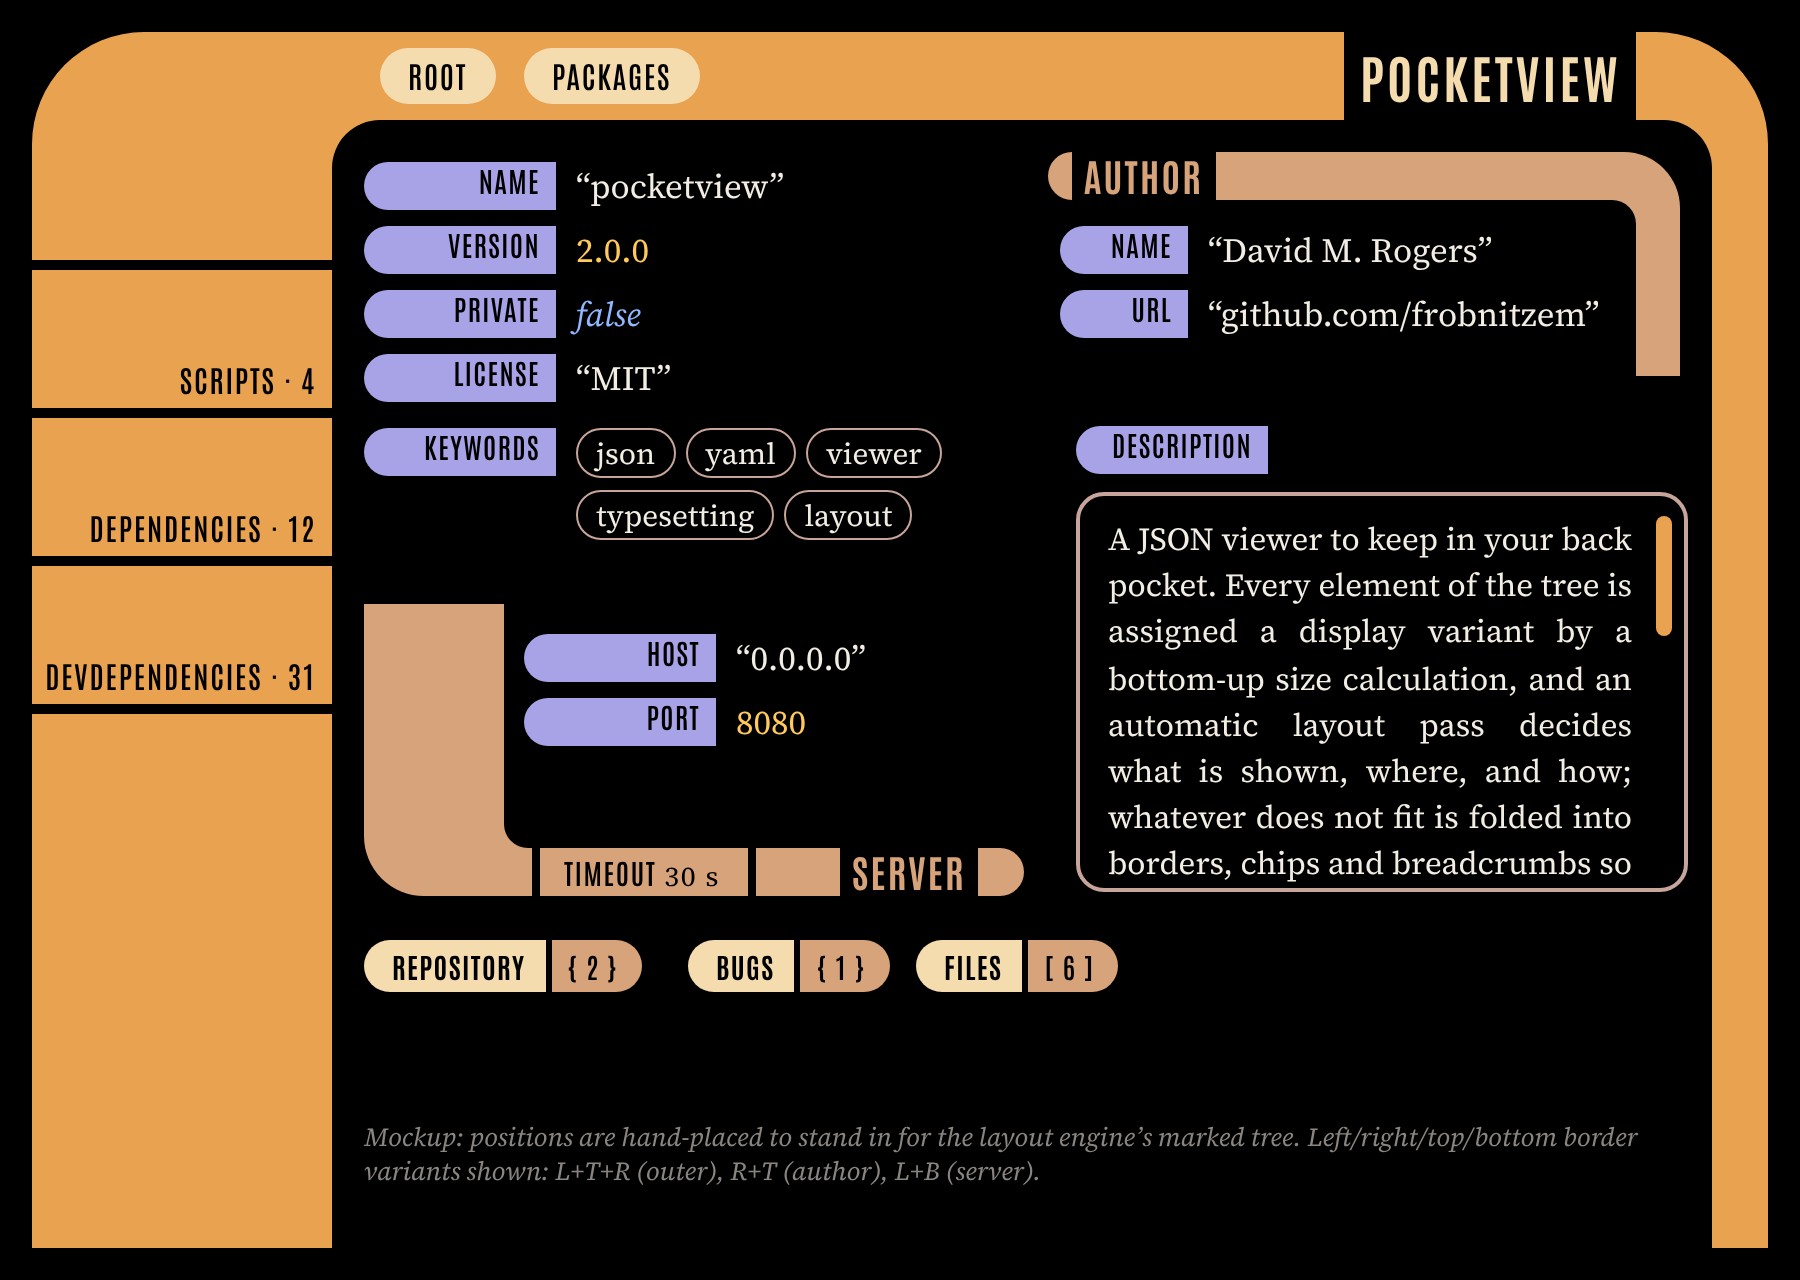
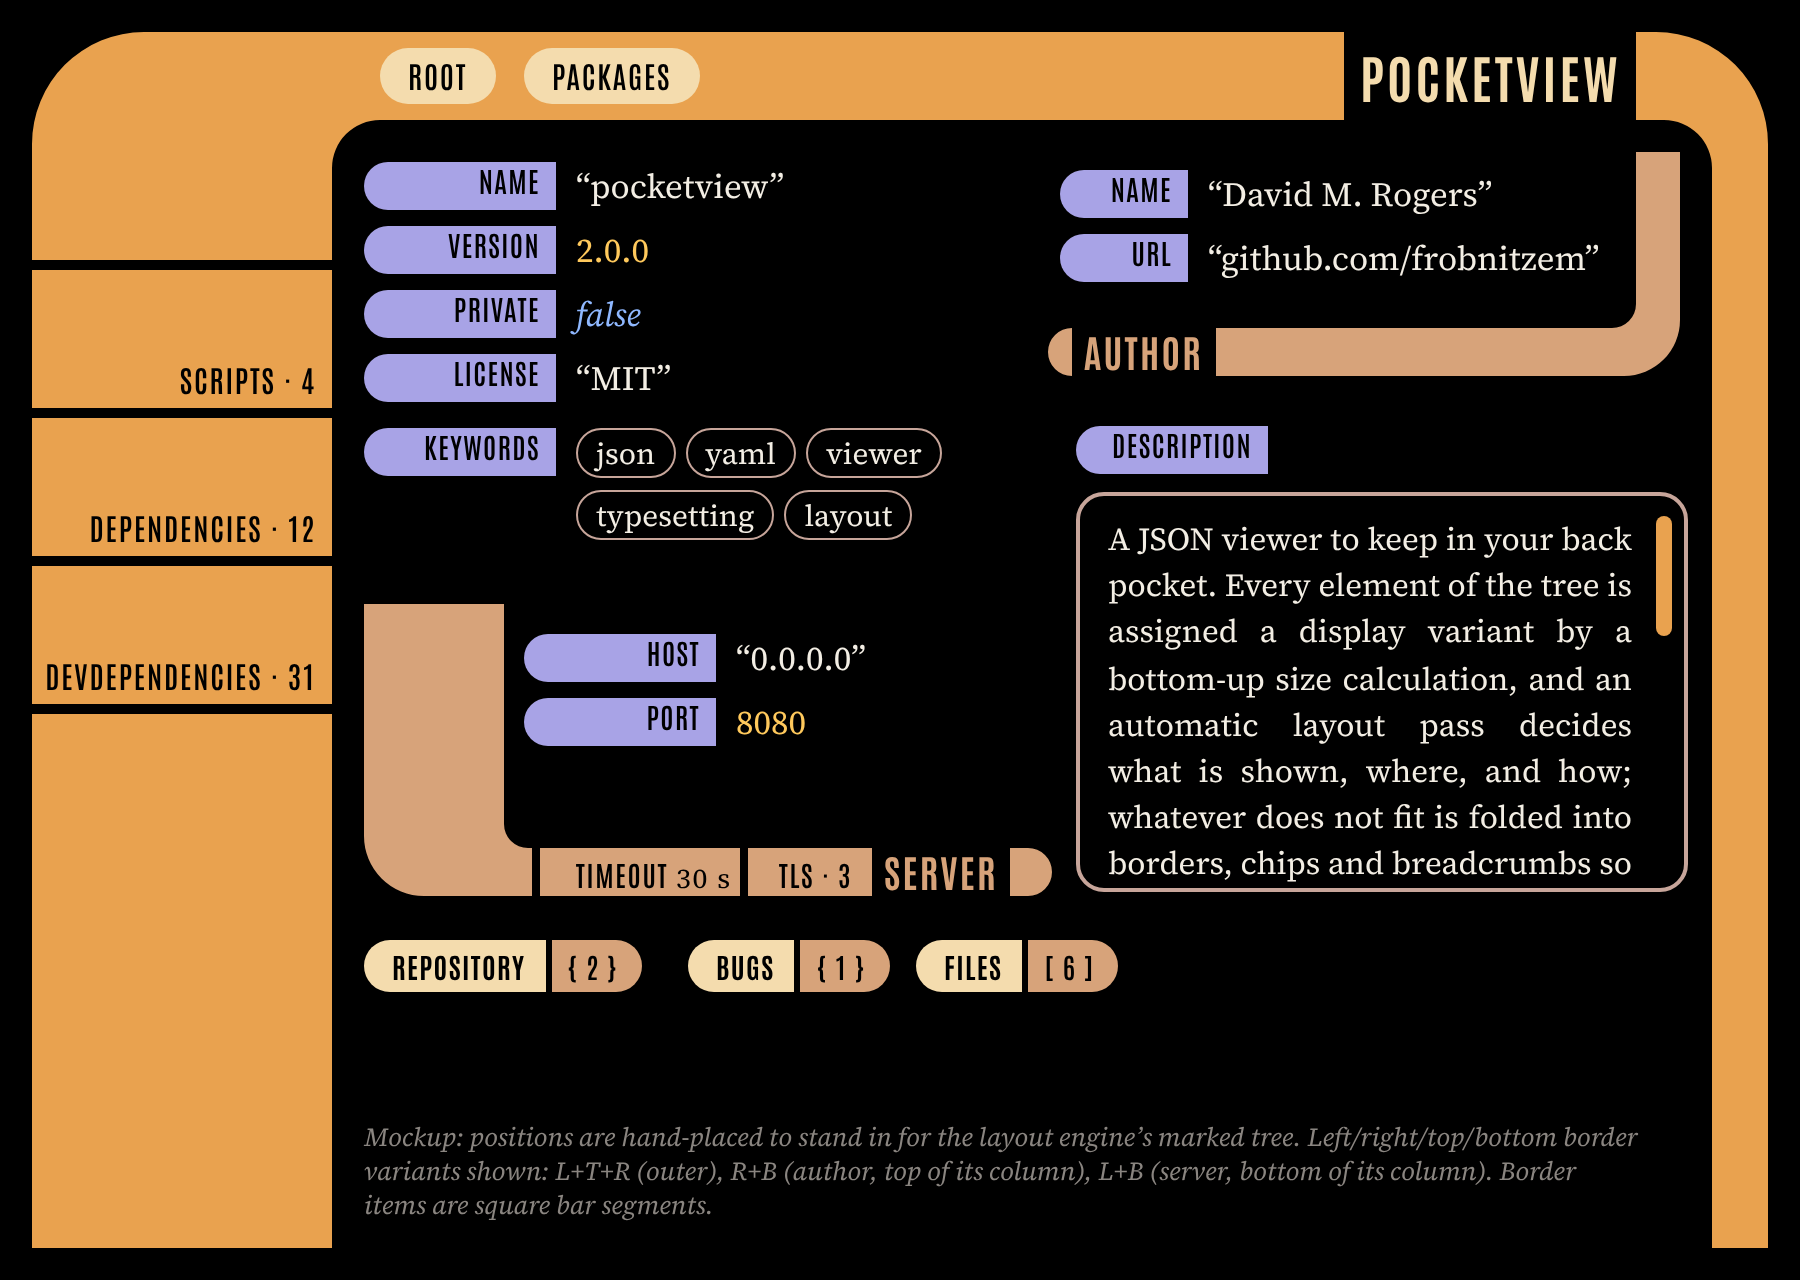
Settle arch variant rules and square border segments
No LBR arch; T by default, B at the top or bottom of a column; items in a
horizontal bar are square segments matching the side bar. Framed arrays
deferred to a selector plugin.

Claude-Session: https://claude.ai/code/session_0197MBmZbRuHRcvrcQRsUeTS

diff --git a/docs/mockups/arch.html b/docs/mockups/arch.html
@@ -70,16 +70,18 @@
   <span style="width:210px"><span class="tag">json</span><span class="tag">yaml</span><span class="tag">viewer</span><span class="tag">typesetting</span><span class="tag">layout</span></span>
 </div>
 
-<!-- nested object, R+T variant (right column) -->
-<div class="lbl title" style="--bar:24px;left:536px;top:76px;font-size:19px;color:var(--frame-1);padding:0 6px">author</div>
-<div class="row" style="left:530px;top:112px"><span class="key sm">name</span><span class="val">“David M. Rogers”</span></div>
-<div class="row" style="left:530px;top:144px"><span class="key sm">url</span><span class="val">“github.com/frobnitzem”</span></div>
+<!-- nested object, R+B variant (top of the right column) -->
+<div class="lbl title" style="--bar:24px;left:536px;top:164px;font-size:19px;color:var(--frame-1);padding:0 6px">author</div>
+<div class="row" style="left:530px;top:84px"><span class="key sm">name</span><span class="val">“David M. Rogers”</span></div>
+<div class="row" style="left:530px;top:116px"><span class="key sm">url</span><span class="val">“github.com/frobnitzem”</span></div>
 
 <!-- nested object, L+B variant: key/value pair sitting ON the bottom border -->
 <div class="row" style="left:262px;top:316px"><span class="key">host</span><span class="val">“0.0.0.0”</span></div>
 <div class="row" style="left:262px;top:348px"><span class="key">port</span><span class="val num">8080</span></div>
-<div class="lbl" style="left:282px;top:429px;font-size:14px">timeout <span style="font-family:'Source Serif 4';text-transform:none;font-weight:400">30 s</span></div>
-<div class="lbl title" style="--bar:24px;left:420px;top:424px;font-size:19px;color:var(--frame-1);padding:0 6px">server</div>
+<!-- border items are square segments of the bar, labelled like side-bar segments -->
+<div class="lbl seg" style="left:270px;top:430px;width:96px;font-size:14px">timeout <span style="font-family:'Source Serif 4';text-transform:none;font-weight:400">30 s</span></div>
+<div class="lbl seg" style="left:374px;top:430px;width:52px;font-size:14px">tls · 3</div>
+<div class="lbl title" style="--bar:24px;left:436px;top:424px;font-size:19px;color:var(--frame-1);padding:0 6px">server</div>
 
 <!-- long text: fixed width, scrolls instead of overflowing -->
 <div class="row" style="left:538px;top:212px"><span class="key">description</span></div>
@@ -96,7 +98,7 @@
 <div class="chip" style="left:458px;top:470px"><b>files</b><i>[ 6 ]</i></div>
 
 <div class="note" style="left:182px;top:560px;width:640px">Mockup: positions are hand-placed to stand in for the layout engine’s marked tree.
-Left/right/top/bottom border variants shown: L+T+R (outer), R+T (author), L+B (server).</div>
+Left/right/top/bottom border variants shown: L+T+R (outer), R+B (author, top of its column), L+B (server, bottom of its column). Border items are square bar segments.</div>
 </div>
 
 <script>
@@ -126,10 +128,10 @@ document.getElementById('frames').innerHTML = [
   arch({ variant: 'LTR', x: 16, y: 16, w: 868, h: 608, s: 150, sR: 28, t: 44, R: 56, r: 24, fill: css('--frame-0') }),
   // side-border segments (collapsed children) are cut out of the left bar
   cut(16, 130, 150, 5), cut(16, 204, 150, 5), cut(16, 278, 150, 5), cut(16, 352, 150, 5),
-  arch({ variant: 'RT', x: 524, y: 76, w: 316, h: 112, s: 22, t: 24, R: 28, r: 12, fill: css('--frame-1') }),
-  arch({ variant: 'LB', x: 182, y: 302, w: 330, h: 146, s: 70, t: 24, R: 30, r: 12, fill: css('--frame-1') }),
+  arch({ variant: 'RB', x: 524, y: 76, w: 316, h: 112, s: 22, t: 24, R: 28, r: 12, fill: css('--frame-1') }),
+  arch({ variant: 'LB', x: 182, y: 302, w: 344, h: 146, s: 70, t: 24, R: 30, r: 12, fill: css('--frame-1') }),
   // border item on the bottom bar of "server": its own segment
-  cut(266, 424, 4, 24), cut(374, 424, 4, 24),
+  cut(266, 424, 4, 24), cut(370, 424, 4, 24),
 ].join('');
 </script>
 </body>

diff --git a/DESIGN.md b/DESIGN.md
@@ -47,18 +47,26 @@ A frame is a thick side bar joined to a horizontal bar by a rounded elbow
 |---------|-------------------|--------------------------------------------------|
 | `LT`    | left + top        | default nested object                            |
 | `RT`    | right + top       | object in a right-hand column                    |
-| `LB`    | left + bottom     | object whose header items sit at the bottom      |
-| `RB`    | right + bottom    | mirror of `LB`                                   |
+| `LB`    | left + bottom     | left column, at the top or bottom of the column  |
+| `RB`    | right + bottom    | right column, at the top or bottom of the column |
 | `LTR`   | left + top + right| **outermost frame** (required); full-width child |
 
-The outermost frame must have a top bar, and the breadcrumbs live in it.
+There is no `LBR` variant. The outermost frame must have a top bar, and the
+breadcrumbs live in it.
+
+**Choosing a variant** (decided; the planner does this, not plugins):
+- **Side:** a frame in a left column gets its bar on the left (`L*`), and
+  one in a right column gets it on the right (`R*`).
+- **Top or bottom:** top (`*T`) by default. Bottom (`*B`) if the frame sits
+  at the top or bottom of its column.
+- **Three-sided:** `LTR` for the outermost frame and full-width children.
 
 ### Where a key/value pair can go (slots)
 
 | slot        | contents                                                              |
 |-------------|-----------------------------------------------------------------------|
 | `row`       | inside the frame: key chip + value, one per line                      |
-| `border`    | on a horizontal bar, as its own bar segment (`TIMEOUT 30 s`)          |
+| `border`    | on a horizontal bar: a square segment as tall as the bar (`TIMEOUT 30 s`, `TLS · 3`) |
 | `title`     | the frame's own key, in a gap at the open end of its horizontal bar   |
 | `sidebar`   | collapsed child: a labelled segment of the side bar (`SCRIPTS · 4`)   |
 | `chip`      | collapsed child: key capsule + size badge inside (`REPOSITORY { 2 }`) |
@@ -66,6 +74,11 @@ The outermost frame must have a top bar, and the breadcrumbs live in it.
 | `scroll`    | text or array too tall for its box: fixed-size box with a scrollbar   |
 | `crumb`     | ancestor of the focused node, as a capsule in the outermost top bar   |
 | `menu`      | ancestor that didn't fit as a capsule, listed in a hamburger dropdown |
+
+Items in a horizontal bar, whether key/value pairs or collapsed children,
+are **square** segments as tall as the bar, separated by gaps and labelled
+like side-bar segments: the bars read as one system. Capsules are kept for
+breadcrumbs and for chips inside the frame.
 
 Clicking a `sidebar`, `chip` or `crumb` item moves the focus to that node.
 
@@ -136,7 +149,10 @@ interface Variant<T = unknown> {
 Built-in variants:
 - Strings: `token`, `text.justified`, `text.scroll`, `code`, `math`.
 - Numbers, booleans and null: `token`.
-- Arrays: `tags`, `table` (arrays of uniform objects), `list.scroll`.
+- Arrays: `tags`, `list.scroll`. No frame by default. A framed array
+  display for regularly structured arrays (matrices, dataframe-like arrays
+  of uniform records) comes later, as a selector plugin that matches by
+  schema or shape.
 - Objects: `arch.*`.
 - Every node: `chip`.
 
@@ -203,11 +219,4 @@ apps/demo          gh-pages site
 
 ## Open questions
 
-- Should there also be an `LBR` (left + bottom + right) variant, or is
-  `LTR` the only three-sided frame?
-- Do arrays get a frame of their own, or only `tags` / `table` / `scroll`?
-- How are arch variants chosen for nested objects? Proposed rule: a frame
-  in a left column faces left (`L*`) and one in a right column faces right
-  (`R*`). Bottom variants (`*B`) are used when a child carries border items
-  and sits last in its column. `LTR` is used for the outermost frame and for
-  full-width children.
+None at the moment.
